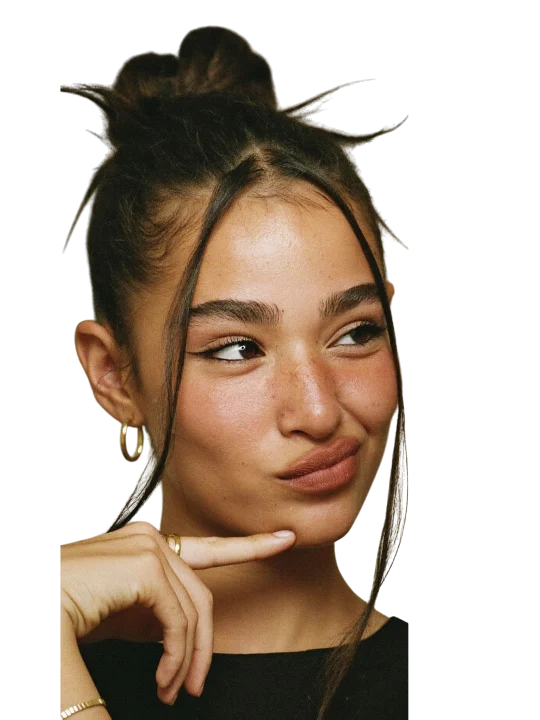
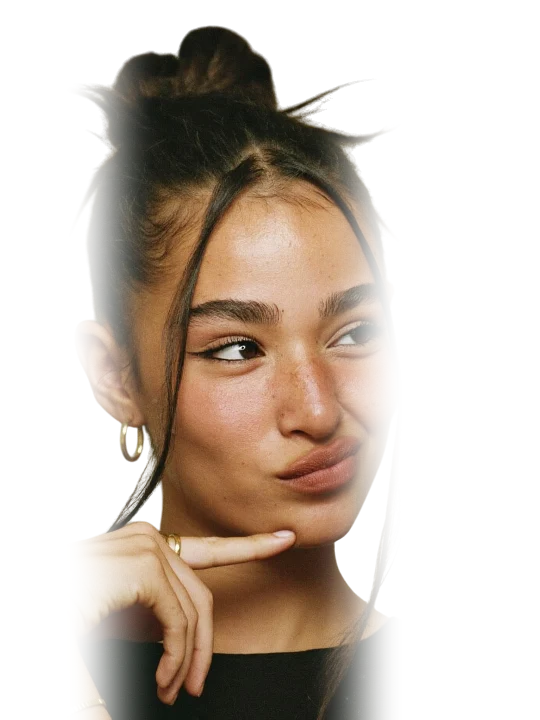
fix(gender): ассет растушёвывает свои кадровые границы, а не край кнопки
Фаундер: у парня справа переход отличный, слева плечо обрывается прямой линией;
у девушки так же слева по руке. Асимметрия и была подсказкой, а я сначала
прочитал это как «маска слишком узкая» — неверно.

Маска привязана к краю КНОПКИ, а обрывы — это край исходной ФОТОГРАФИИ, и они не
совпадают. По задеплоенным ассетам: контент парня занимает x 61..558 из 540,
девушки — 60..408. Справа у парня рисунок вылезает за кнопку, там маска доводит
его до нуля — отсюда «справа круто». Слева плечо кончается на 11% ширины, где
маска держит ещё ~77% непрозрачности. У девушки обе вертикали искусственные и
лежат внутри кнопки: слева рамка кадра режет руку, справа отсекатель камеры
режет волосы.

Поэтому растушёвка перенесена в подготовку ассета, где геометрия известна:
любая граница, попавшая ВНУТРЬ кнопки, растушёвывается там, а граница,
вылезающая за кнопку, оставлена CSS-маске — иначе она растворялась бы дважды.
Скрипт печатает геометрию на каждом прогоне, так что новая фотография сразу
показывает, что с ней произошло.

Отдельно про метод: numeric-гвард на максимальный скачок средней альфы между
колонками был написан и УДАЛЁН, потому что прошёл при растушёвке, сведённой к
1% — то есть дал зелёный свет ровно тому дефекту, ради которого писался. У
выреза силуэт резкий по всему контуру, это и есть вырез; кадровую границу
отличает только длина и прямизна, чего усреднение по колонке не видит. Гвард,
подтверждающий баг, хуже отсутствующего. Проверка здесь — рендер в реальный
размер.

diff --git a/apps/webapp/src/gender-avatars.ts b/apps/webapp/src/gender-avatars.ts
@@ -23,6 +23,17 @@
  * by landmarks decouples the two, and dropping the camera column becomes a
  * separate decision from where the face sits.
  *
+ * **The asset feathers its own edges, and the button's fade cannot do it.** The
+ * button's fade is anchored to the button; these figures do not reach it. The
+ * man's content lands at x 61..558 of 540 and the woman's at 60..408, so the
+ * straight vertical lines that read as a pasted cut-out — the source
+ * photograph's frame cutting through a shoulder or an arm, and on her right the
+ * clip column that drops the camera cutting through her hair — all sit 11-24%
+ * in, where the button's fade still holds over 77% opacity and never touched
+ * them. `prepare.mjs` therefore feathers any edge that falls INSIDE the button,
+ * and leaves an edge that runs past it to the CSS fade, which already takes
+ * that one to zero.
+ *
  * Prepared by `~/Desktop/gennety-gender-avatars/prepare.mjs`. Never copy an
  * original in by hand: they are 2000x3555 PNGs against ~47 KB of WebP here, on
  * the onboarding path. Same rule and same reason as the preference photographs.

diff --git a/DECISIONS.md b/DECISIONS.md
@@ -2885,6 +2885,46 @@ Env), `services/rematch-card.ts`, `services/analysis-status.ts`
 
 ---
 
+## 2026-08-23 — растворение было привязано не к тому краю; и гвард, который подтвердил баг
+
+**Kind:** deviation from plan
+**What:** растушёвка кадровых границ перенесена в подготовку ассета
+(`prepare.mjs`) — маска кнопки осталась как была.
+**Why:** фаундер сообщил, что у парня справа переход отличный, а слева плечо
+обрывается прямой линией; у девушки так же по левому краю с рукой. Асимметрия и
+была подсказкой, и я сначала прочитал жалобу как «маска слишком узкая», что
+неверно.
+
+**Маска привязана к краю КНОПКИ, а обрывы — это край исходной ФОТОГРАФИИ, и они
+не совпадают.** Посчитано по задеплоенным ассетам: контент парня занимает
+x 61…558 из 540, девушки — 60…408. Справа у парня рисунок вылезает за кнопку,
+там маска доводит его до нуля — отсюда «справа круто». Слева его плечо кончается
+на 11% ширины, где маска держит ещё ~77% непрозрачности, и кадровая граница
+видна почти во всю силу. У девушки **обе** вертикали искусственные и лежат
+внутри кнопки: слева рамка кадра режет руку, справа мой же отсекатель камеры
+режет волосы.
+
+**What it changes going forward:**
+- **Разделение обязанностей:** ассет отвечает за свои кадровые границы, кнопка —
+  за свой край. Край, вылезающий за кнопку, ассет НЕ трогает, иначе он
+  растворяется дважды.
+- **Растушёвка живёт в скрипте, а не в CSS**, потому что она зависит от того,
+  где именно оказался рисунок, а это знает только подготовка.
+- **Числа геометрии печатаются на каждом прогоне** (`content x 61..558, left
+  feathered, right clipped by button`) — новая фотография сразу показывает, что
+  с ней произошло, вместо того чтобы это выяснялось на телефоне.
+
+**Отдельная запись про метод, потому что это стоило времени.** Я написал гвард:
+максимальный скачок средней альфы между соседними колонками, порог 20%. Он
+**прошёл при растушёвке, сведённой к 1%**, то есть дал зелёный свет ровно тому
+дефекту, ради которого писался. Причина не в пороге, а в постановке: у выреза
+силуэт резкий по всему контуру — это и есть вырез, — а кадровую границу отличает
+только то, что она прямая и длинная, чего усреднение по колонке не видит. Гвард
+удалён: тот, что подтверждает баг, хуже отсутствующего, потому что создаёт
+ложную уверенность. Проверка здесь — рендер в реальный размер.
+
+---
+
 ## 2026-08-22 — фотографии на экране пола растворяются с трёх сторон, а не с одной
 
 **Kind:** founder decision

diff --git a/PRODUCT_SPEC.md b/PRODUCT_SPEC.md
@@ -415,6 +415,19 @@ out of Telegram-only workers.
   alone — the head has its own headroom, so there is no edge there to soften,
   and fading a crown looks like a mistake.
 
+  **The button's fade cannot reach the edges that actually needed softening,
+  so the asset feathers its own** (2026-08-23). Anchored to the button, that
+  fade only ever touches content that runs to the button's edge — and these
+  figures do not: the man's content lands at 11..103% of the button's width and
+  the woman's at 11..76%. The straight vertical lines that read as a pasted
+  cut-out are the source photograph's own frame cutting through a shoulder and
+  an arm, plus the clip column that drops the camera cutting through her hair,
+  and every one of them sits 11-24% in, where the button's fade still holds
+  over 77% opacity. `prepare.mjs` feathers any edge falling inside the button
+  and leaves an edge that runs past it to the CSS fade. This is also why the
+  right side of the man's button read as correct while his left did not: one
+  edge was clipped by the button and one was not.
+
   Two properties of that fade are load-bearing rather than styling. It is
   **eased, not linear**: a two-stop linear alpha ramp has a visible kink where
   it begins, and the eye reads that line as the edge of the photograph — the
